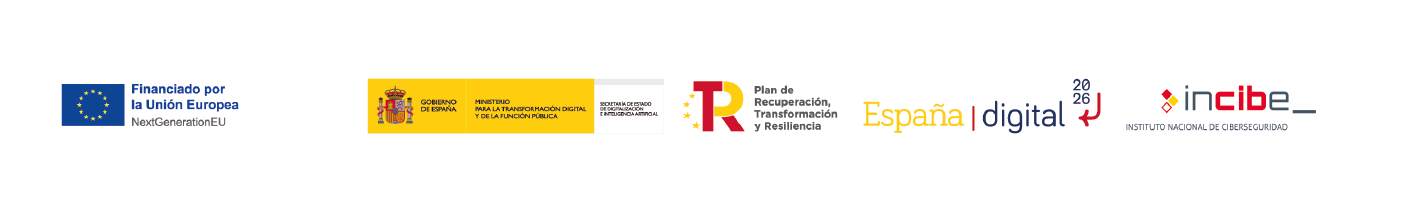
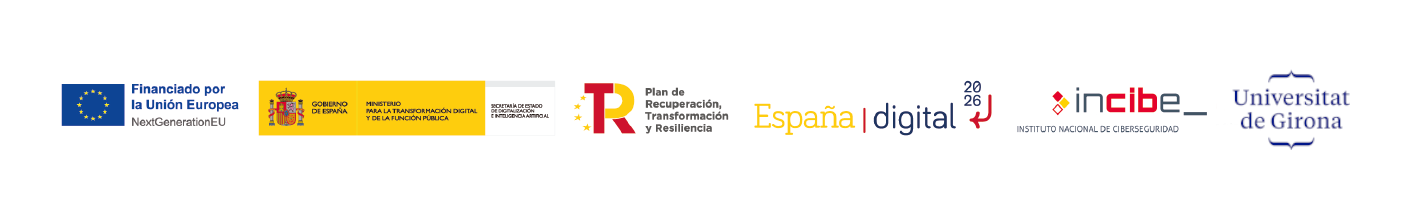
Update 3 files
- /index.html
- /style.css
- /images/ministerio.png

Changed region(s): [[0.1559, 0.3959, 0.9667, 0.7005], [0.8731, 0.7005, 0.9355, 0.7614], [0.9043, 0.3655, 0.9355, 0.3959]]

diff --git a/index.html b/index.html
@@ -330,7 +330,6 @@
           <div class="col-md-4 col-sm-6 col-xs-12">
             <ul class="social-icons">
               <li><img class="footerLongImage" src="./images/ministerio.png" alt="logo Ministerio"></li>
-              <li><a target="_blank" href="https://www.udg.edu/ca/"><img class="footerImage" src="./images/udg.png" alt="UdG logo"></a></li>
             </ul>
           </div>
         </div>

diff --git a/style.css b/style.css
@@ -403,7 +403,7 @@ h3{
 }
 .social-icons
 {
-  padding-left:500px;
+  padding-left:600px;
   margin-bottom:0;
   list-style:none;
   display: flex;
@@ -421,8 +421,8 @@ h3{
     cursor: pointer;
 }
 .footerLongImage{
-    width: 500px;
-    margin-right: 400px;
+    width: 1000px;
+    margin-right: 10px;
 }
   
 
